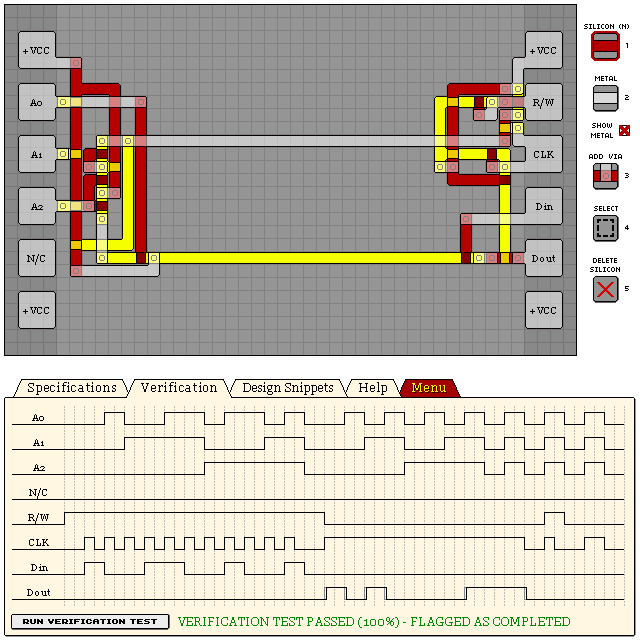
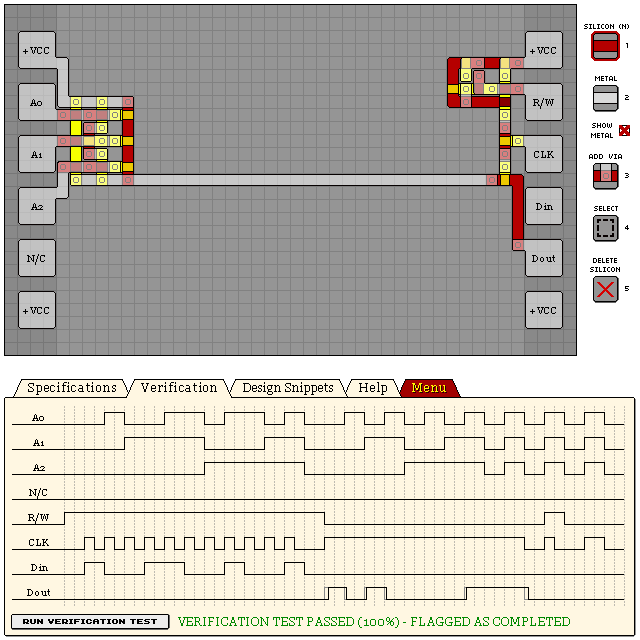
15 KR8S1 - even cheesier

Changed region(s): [[0.0625, 0.0625, 0.8438, 0.4375]]

diff --git a/levels/15 KR8S1 8-BIT ADDRESSABLE SRAM.md b/levels/15 KR8S1 8-BIT ADDRESSABLE SRAM.md
@@ -30,19 +30,17 @@ gI9w5Tx3o5/BxlfkVeOLa7i4hqv/tdBb6+oo+/qI5Bz/AFF00Co=
 ## 100% Best Design Score (cheated lol)
 
 - Verification: Passed (100%)
-- Design Score: 235
+- Design Score: 149
 
 ```
[9 lines of base64/hex data omitted]
-a3b4YO7na5VOr75h1FhRiupPOdIfNynIbg==
[7 lines of base64/hex data omitted]
+vgPe2SrT007/djTwrSAp6THL816nylT5XaTt6UiZzw+1DseO
 ```
 
 ![15 KR8S1 8-BIT ADDRESSABLE SRAM](./assets/15-cheated.png)
